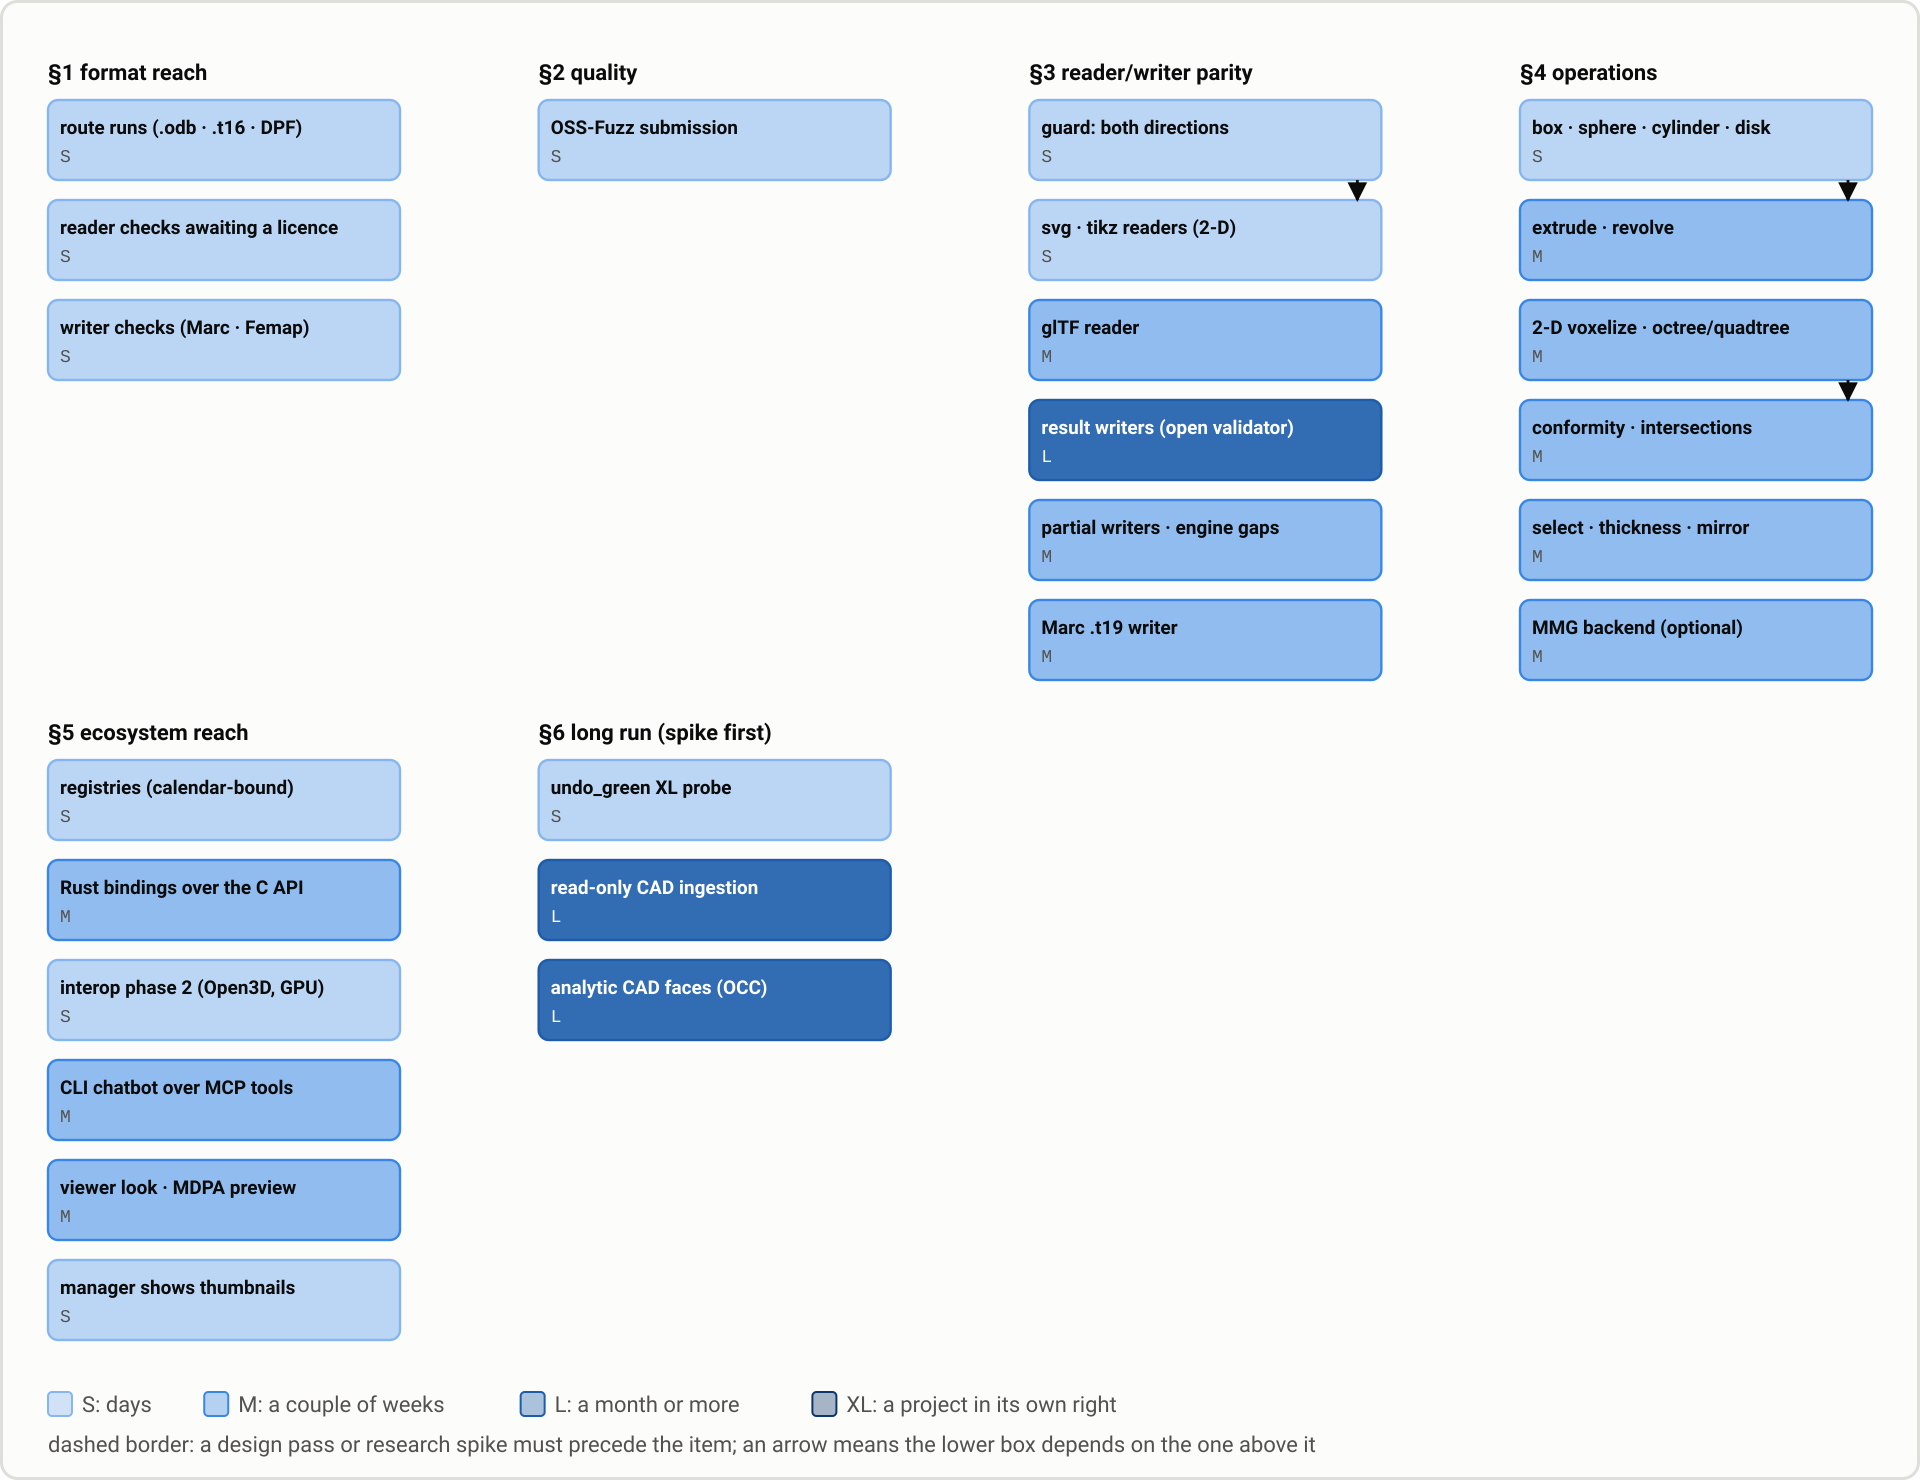
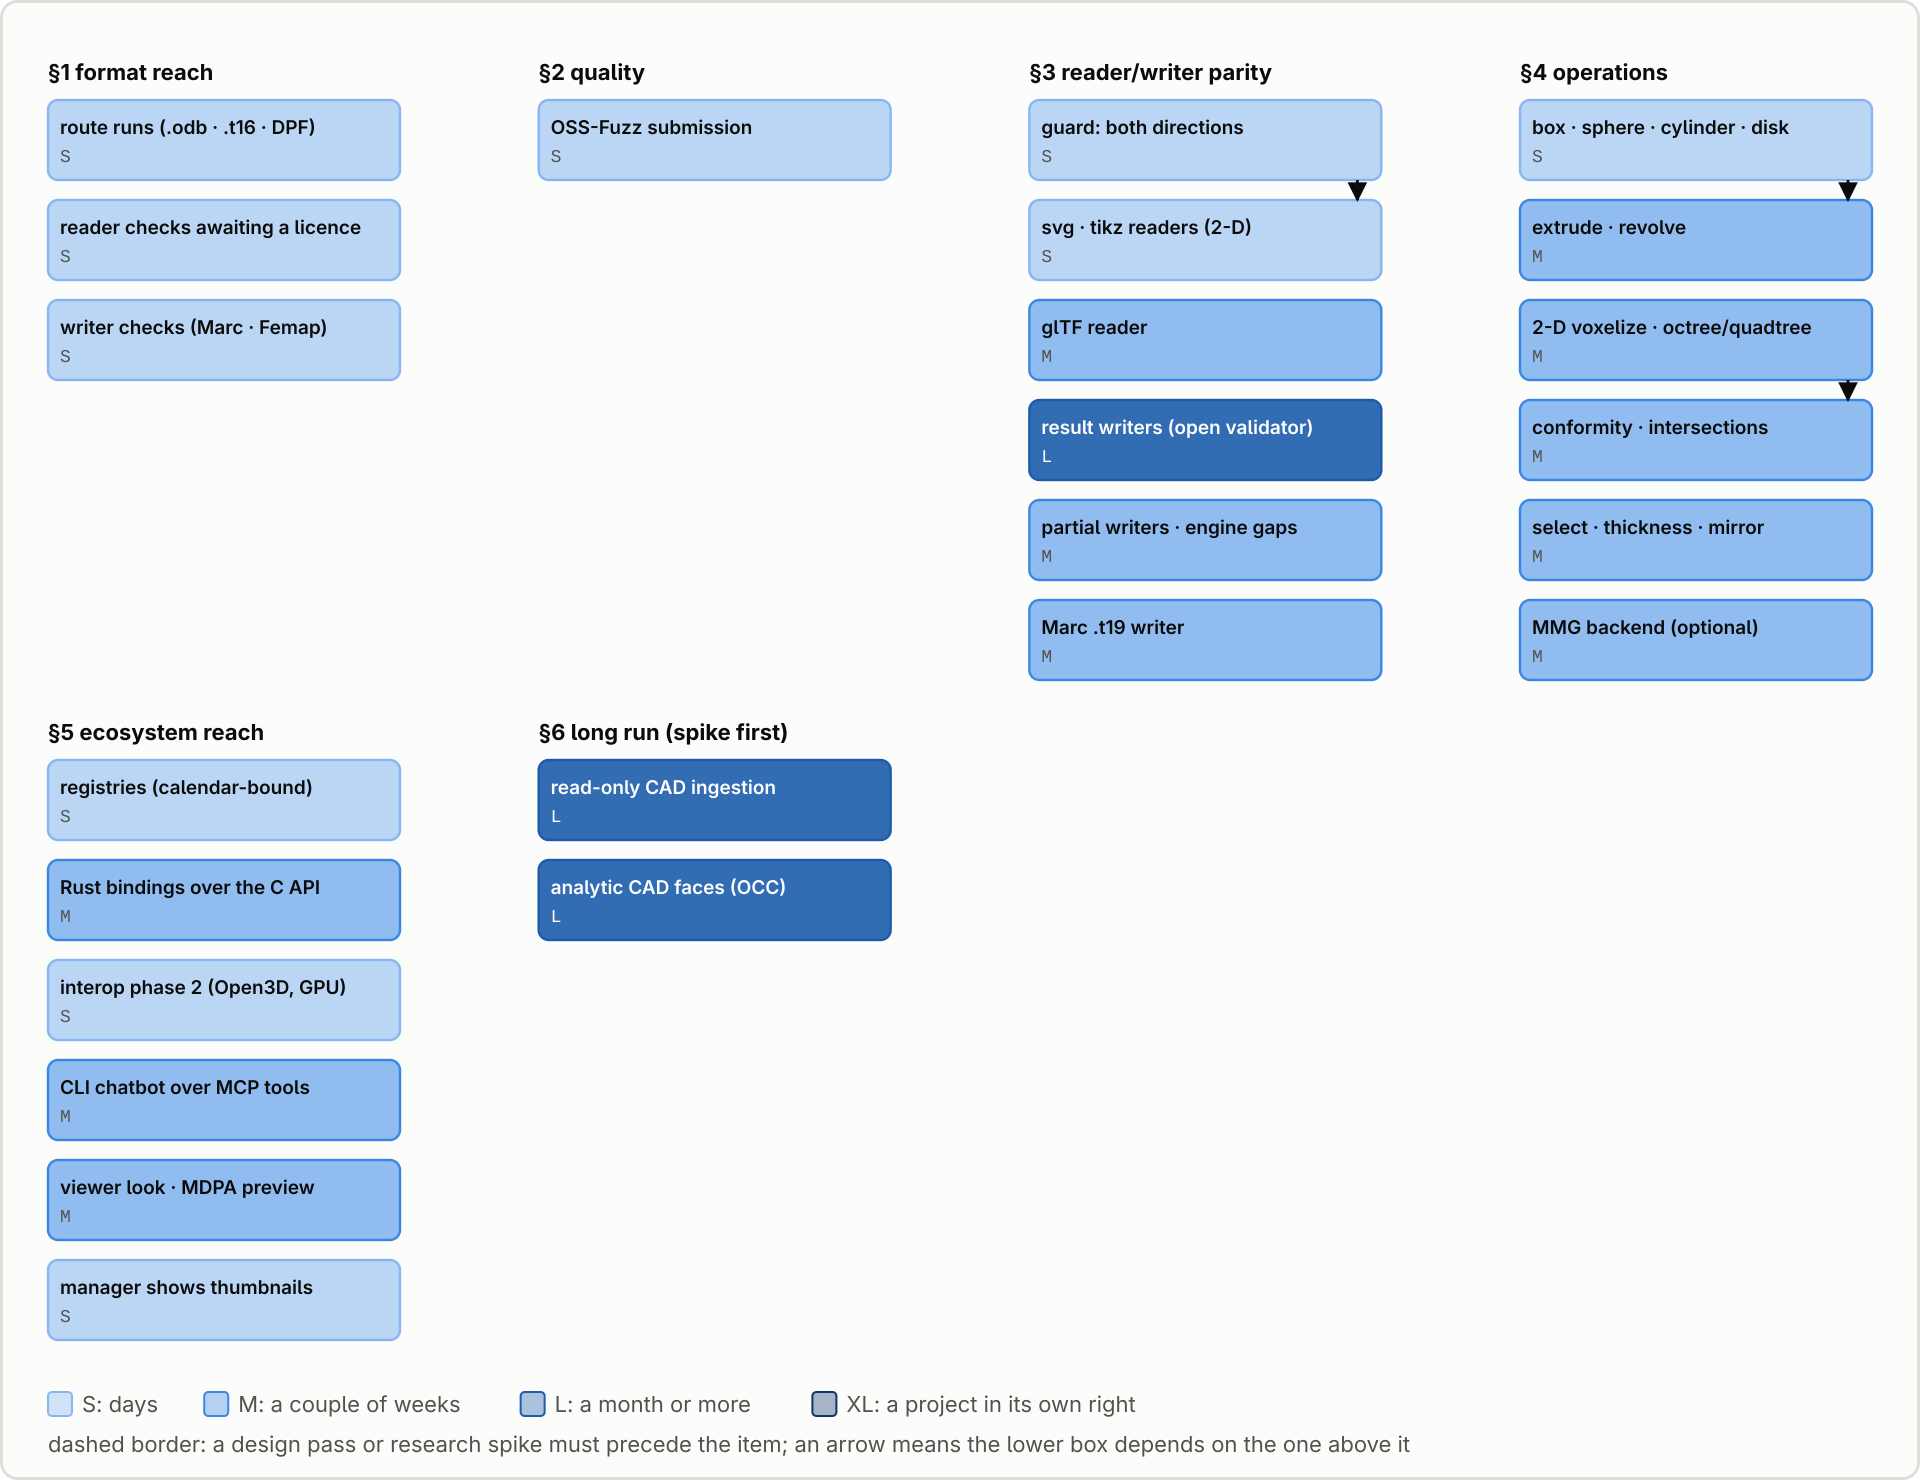
Update benchmarks and documentation for `undo_green` operation
- Added benchmark results for `undo_green` operation at `--tier XL`, showing completion time of 2.05 s with a peak memory usage of 12.0 GB.
- Updated `CHANGELOG.md` to reflect the new benchmark results and improvements in memory handling for the `undo_green` operation.
- Revised `benchmarks.md` to include the updated performance metrics for `undo_green` and its previous out-of-memory issues.
- Modified `roadmap.md` to clarify the status of the `undo_green` operation and its implications for future development.
- Adjusted `spikes.md` to document the changes in memory usage and performance for `undo_green` after recent fixes.
- Updated flow diagrams in `roadmap_map.svg` to remove references to the `undo_green XL probe` and reflect the current state of the roadmap.

diff --git a/doc/diagrams/figures/flows.py b/doc/diagrams/figures/flows.py
@@ -1067,7 +1067,6 @@ def roadmap_map():
         (
             "§6 long run (spike first)",
             [
-                ("undo_green XL probe", "S"),
                 ("read-only CAD ingestion", "L"),
                 ("analytic CAD faces (OCC)", "L"),
             ],

diff --git a/doc/spikes.md b/doc/spikes.md
@@ -10,7 +10,7 @@
 
 **Operations.** Each row was then run alone, `SEQ` backend, one thread, one timed run after the warmup, on a 4-core machine with 15 GiB and no swap; the peak is the process's resident high-water mark. Building the input cube and its skin alone peaks at 6.4 GB (the generator's own temporaries; the cube itself is 0.4 GB), so a peak equal to that means the operation stayed under it.
 
-Of 76 rows, 70 completed, 54 of them in under 30 seconds on one thread; the slowest that finished were `optimize_volume` (823 s), `pipeline_smooth_surface` (345 s), `smooth_volume` (317 s) and `interpolate_cells` (268 s). The heaviest that fit added about 5 GB over the setup peak (`feature_edges` on the volume, `agglomerate`, the skin-extracting renders): roughly a dozen times the 0.4 GB cube. Six did not finish. Three were killed by the out-of-memory killer at 13.3 GB, and all three read a copy of the cube that the harness builds for them: `reorder_ragged` and `simplexify_ragged` the cube as 10M polyhedra, `undo_green` a green-refined cube with its refinement hierarchy recorded. `simplexify_ragged` was rerun alone on an idle machine and died the same way. Three exceeded the 15-minute cap on a warmup plus one timed run (so more than about 7.5 minutes each) without using memory beyond the setup peak: `remesh_volume`, and the two rows that sample the distance from every volume point to the skin, `sample_distance` and `distance_to_surface`. Times are one thread on the `SEQ` backend; the four-thread OpenMP times of the render rows in the [terminal-rendering page](./tui.md#design-decisions) are about six times shorter.
+Of 76 rows, 70 completed, 54 of them in under 30 seconds on one thread; the slowest that finished were `optimize_volume` (823 s), `pipeline_smooth_surface` (345 s), `smooth_volume` (317 s) and `interpolate_cells` (268 s). The heaviest that fit added about 5 GB over the setup peak (`feature_edges` on the volume, `agglomerate`, the skin-extracting renders): roughly a dozen times the 0.4 GB cube. Six did not finish (the table below is that first run; two of the three kills have since been fixed, and the third, `undo_green`, completes after [what landed](#what-landed)). Three were killed by the out-of-memory killer at 13.3 GB, and all three read a copy of the cube that the harness builds for them: `reorder_ragged` and `simplexify_ragged` the cube as 10M polyhedra, `undo_green` a green-refined cube with its refinement hierarchy recorded. `simplexify_ragged` was rerun alone on an idle machine and died the same way. Three exceeded the 15-minute cap on a warmup plus one timed run (so more than about 7.5 minutes each) without using memory beyond the setup peak: `remesh_volume`, and the two rows that sample the distance from every volume point to the skin, `sample_distance` and `distance_to_surface`. Times are one thread on the `SEQ` backend; the four-thread OpenMP times of the render rows in the [terminal-rendering page](./tui.md#design-decisions) are about six times shorter.
 
 | Row | Time (s) | Peak (GB) | |
 | --- | ---: | ---: | --- |
@@ -57,7 +57,7 @@ Of 76 rows, 70 completed, 54 of them in under 30 seconds on one thread; the slow
 | `region_adjacency` | 39.25 | 10.3 | +4.1 GB over setup |
 | `find_interface` | 36.20 | 7.4 | +1.1 GB over setup |
 | `split` | 2.67 | 6.3 |  |
-| `undo_green` | — | 13.3 | killed (OOM) |
+| `undo_green` | — | 13.3 | killed (OOM); 2.05 s at 12.0 GB after the fixes in [what landed](#what-landed) |
 | `hessian` | 21.42 | 7.9 | +1.7 GB over setup |
 | `compute_normals` | 0.10 | 6.3 |  |
 | `compute_curvature` | 0.09 | 6.3 |  |
@@ -123,9 +123,9 @@ Both items were then fixed with every output byte unchanged: the VTU, VTP, VTR, 
 | --- | --- | --- | --- | --- |
 | `reorder_ragged` | killed at 13.3 GB | 6.3 GB (the setup peak) | 42.5 s | 1,209 → 470 MB |
 | `simplexify_ragged` | killed at 13.3 GB | 9.7 GB | 61.7 s | 1,111 → 726 MB |
-| `undo_green` | killed at 13.3 GB | killed at 13.3 GB | — | 1,294 → 1,039 → 994 MB |
+| `undo_green` | killed at 13.3 GB | 12.0 GB | 2.05 s | 1,294 → 1,039 → 994 MB |
 
-`undo_green` is still killed at XL, and by its input more than by itself: the harness's green-refined cube (every seventh cell refined and closed red-green, about 83M tetrahedra with their hierarchy) leaves the process at 11.1 GB once built, and the 3.6 GB output does not fit beside it. At tier L its peak above that input fell from 0.48 GB to 0.23 GB. Reading the `refine:*` columns in place and narrower group ids were to bring it to its floor of input plus output, about 16 GB here. They landed next (the third L figure above): each `refine:*` column is now read through a view per block, which is the array itself for the Int64 columns `refine` writes (a column of another dtype is converted one block at a time), the group ids are 32-bit and the per-group sizes are gone, and with a coarse mesh that records no hierarchy, as the harness's, the coarse id table is never built. At XL that removes about 2 GB of column copies, 0.33 GB of group ids and 0.25 GB of coarse ids from the classification; at tier L the row also runs in 0.24 s instead of 1.34 s, and every digest at tiers S, M and L is unchanged. What is left is the floor itself, the input and the output side by side, which does not fit in this machine's 15 GiB; [roadmap 6.1.1](./roadmap.md#_6-long-run-spike-first) keeps only the probe on a larger one.
+`undo_green` was still killed at XL after its scratch was released, and by its input more than by itself: the harness's green-refined cube (every seventh cell refined and closed red-green, about 83M tetrahedra with their hierarchy) leaves the process at 11.1 GB once built, and the 3.6 GB output was expected to need about 16 GB beside it. At tier L its peak above that input fell from 0.48 GB to 0.23 GB. Reading the `refine:*` columns in place and narrower group ids landed next (the third L figure above): each `refine:*` column is now read through a view per block, which is the array itself for the Int64 columns `refine` writes (a column of another dtype is converted one block at a time), the group ids are 32-bit and the per-group sizes are gone, and with a coarse mesh that records no hierarchy, as the harness's, the coarse id table is never built. At XL that removes about 2 GB of column copies, 0.33 GB of group ids and 0.25 GB of coarse ids from the classification; at tier L the row also runs in 0.24 s instead of 1.34 s, and every digest at tiers S, M and L is unchanged. The probe on a 23 GB machine (`SEQ`, one thread, a warmup and one timed run, `--ops undo_green`) closes it: the row completes at XL in 2.05 s with a peak resident set of 12,335 MB (12.0 GB), below the 16 GB the input-plus-output estimate gave, and its wall time with the setup is 33 s; the row is in [`benchmark/xl_ops_seq.csv`](https://github.com/loumalouomega/meshioplusplus/blob/main/benchmark/xl_ops_seq.csv). It was not rerun on the 15 GiB machine of the first study, where 12.0 GB should fit.
 
 ## How far the data model stretches
 

diff --git a/doc/roadmap.md b/doc/roadmap.md
@@ -261,10 +261,6 @@ What changed since parity last had a section. The reader/writer triage of Septem
 
 *Admission: work whose shape is unknown until an investigation writes it down. Findings before code.*
 
-**6.1 Scale.** Measured at the harness's `--tier XL` (10,368,000 tetrahedra) on a 15 GiB machine and written up in [findings](./spikes.md#scale-at-10m-cells): every writer needs at most about once the mesh it writes, and every operation row but `undo_green` and three slow ones runs in memory, so neither a general streaming writer nor out-of-core operations is what 10M cells needs. The VTU writer's footprint, the ragged `reorder` and `convert_cells(simplexify)` peaks and `undo_green`'s scratch are fixed ([what landed](./spikes.md#what-landed)). What remains:
-
-- **6.1.1 `undo_green` at XL, the probe.** The operation's scratch is gone ([what landed](./spikes.md#what-landed)): the `refine:*` columns are read in place, the group ids are 32-bit and an implicit coarse id space builds no table, so the row holds its input and its output and little else. That floor is still more than this 15 GiB machine: the harness's green input (every seventh cell of the cube refined, closed red-green: about 83M tetrahedra with their hierarchy) leaves the process at 11.1 GB once built, and the 3.6 GB output does not fit beside it. What remains is to confirm the row on a machine with 16 GB or more: `meshioplusplus_bench_ops --tier XL --ops undo_green`, its peak recorded in `benchmark/xl_ops_seq.csv`. **S**
-
 **6.3 Skin mesh to CAD (reverse engineering).** Shipped on every surface: [`segment`](./segment.md) (smooth patches by region growing, bounded by feature edges and a curvature test), [`fit_primitives`](./fit_primitives.md) (plane, sphere, cylinder, cone and torus with residuals, refusing what fails the tolerance), the write-only faceted [`step`](./formats/step.md) writer, and, through the optional OpenCASCADE backend (`MESHIOPLUSPLUS_WITH_OCCT`, LGPL-2.1, bring-your-own, absent from the wheels, WASM and the release CLI binaries), [`fit_cad`](./fit_cad.md): the fitted patches as analytic faces trimmed, sewn into a checked solid and written as STEP, with anything the kernel cannot build demoted to facets — see [skin to CAD](./cad_fit.md). Freeform B-spline faces cover the smooth patches no primitive explains, a patch no flattening parametrises is split into pieces that one does, and constant-radius rolling-ball fillets (straight, swept along a curved edge, or a ring) and straight-flank thread flanks come back as their own faces ([fillets and threads](./fit_cad.md#fillets-and-threads)). What remains is the features those do not cover. The reference is still [stl2curves](https://github.com/Duvdivan/stl2curves) (MIT, on `cadquery-ocp`), read from its README only.
 
 - **6.3.1 Variable-radius fillets, freeform blends and rounded threads.** A fillet whose radius varies along it, a blend between two freeform faces (the fillet stage needs two analytic neighbours), and a thread whose root or crest is rounded, or that has no cylinder or cone beside it for its axis, still come back as freeform faces or facets. **L**
@@ -312,4 +308,4 @@ Open work only; what shipped is in `CHANGELOG.md`.
 5. **Voxel and octree meshes ([§4](#_4-operations))** — the 2-D `voxelize`, then the octree with hanging nodes and its quadtree, then the polyhedral transitions; the transition templates when a finite-element consumer asks.
 6. **The MMG backend ([§4](#_4-operations))** — Medit `.sol` first, since it needs no link and opens the file route; then `adapt`, `discretize_levelset`, `mesh_domain` and, with ELAS, `move`.
 7. **Registration ([§5](#_5-ecosystem-reach))** — calendar-bound, so start the submissions early and let them run alongside everything else; the viewer's look (5.5) and the dataset manager's thumbnails (5.6) need no decision first and can run beside them.
-8. **Long run ([§6](#_6-long-run-spike-first))** — the spikes are written up in [findings](./spikes.md); `undo_green`'s XL probe (6.1.1) wants only a larger machine; the OpenCASCADE backend carries [`fit_cad`](./fit_cad.md) with freeform faces, split patches, constant-radius fillets, thread flanks and STEP/IGES reading; variable-radius fillets, freeform blends and rounded threads (6.3.1) are what remains there.
+8. **Long run ([§6](#_6-long-run-spike-first))** — the spikes are written up in [findings](./spikes.md); the OpenCASCADE backend carries [`fit_cad`](./fit_cad.md) with freeform faces, split patches, constant-radius fillets, thread flanks and STEP/IGES reading; variable-radius fillets, freeform blends and rounded threads (6.3.1) are what remains there.

diff --git a/doc/benchmarks.md b/doc/benchmarks.md
@@ -827,7 +827,7 @@ CMAKE_BUILD_PARALLEL_LEVEL=4 tools/bench_ops.sh benchmark/results_ops.csv "SEQ O
 
 ### Tier XL
 
-`--tier XL` (10,368,000 tetrahedra) builds a derived input only when a selected row reads it, so `--ops` runs fit in memory; before, the setup held every derived copy of the cube at once and was killed at 13.6 GB on a 15 GiB machine. Every row was run alone at XL, one thread on the `SEQ` backend, with its peak resident memory: [`benchmark/xl_ops_seq.csv`](https://github.com/loumalouomega/meshioplusplus/blob/main/benchmark/xl_ops_seq.csv), and the write-side memory of one XL mesh per format in [`benchmark/xl_writes.csv`](https://github.com/loumalouomega/meshioplusplus/blob/main/benchmark/xl_writes.csv). The table and what it decided for streaming writes and out-of-core operations are in the [long-run findings](./spikes.md#scale-at-10m-cells). The VTU writer's footprint and the ragged `reorder` and `simplexify` rows were then fixed with every digest unchanged; the CSV files carry the new measurements, and the before and after are under [what landed](./spikes.md#what-landed).
+`--tier XL` (10,368,000 tetrahedra) builds a derived input only when a selected row reads it, so `--ops` runs fit in memory; before, the setup held every derived copy of the cube at once and was killed at 13.6 GB on a 15 GiB machine. Every row was run alone at XL, one thread on the `SEQ` backend, with its peak resident memory: [`benchmark/xl_ops_seq.csv`](https://github.com/loumalouomega/meshioplusplus/blob/main/benchmark/xl_ops_seq.csv), and the write-side memory of one XL mesh per format in [`benchmark/xl_writes.csv`](https://github.com/loumalouomega/meshioplusplus/blob/main/benchmark/xl_writes.csv). The table and what it decided for streaming writes and out-of-core operations are in the [long-run findings](./spikes.md#scale-at-10m-cells). The VTU writer's footprint and the ragged `reorder` and `simplexify` rows were then fixed with every digest unchanged; the CSV files carry the new measurements, and the before and after are under [what landed](./spikes.md#what-landed). Every row that fits the harness's time cap now completes at XL: `undo_green`, the last row killed by the out-of-memory killer, runs in 2.05 s with a 12.0 GB peak.
 
 ```sh
 build/bench-ops-seq/meshioplusplus_bench_ops --tier XL --runs 1 --ops feature_edges

diff --git a/CHANGELOG.md b/CHANGELOG.md
@@ -10,6 +10,8 @@ notable enhancements, and breaking changes. Breaking changes are called out expl
 
 ## Unreleased
 
+- **Benchmarks** (roadmap 6.1, closed): the `undo_green` row of the operations harness now completes at `--tier XL` (10,368,000 tetrahedra): 2.05 s and a 12.0 GB peak on one thread, where it was killed by the out-of-memory killer at 13.3 GB before its scratch was released. `benchmark/xl_ops_seq.csv`, `doc/spikes.md` and `doc/benchmarks.md` carry the measurement; no library change.
+
 ## v16.43.0 (2026-10-14)
 
 **The isogeometric layer (roadmap 6.2.2, closing 6.2): evaluate, refine and sample the NURBS models that `NurbsInfo` (MFEM) and `BrepInfo` (Kratos CAD JSON, STEP, IGES) carry, without going through their sampling.**
